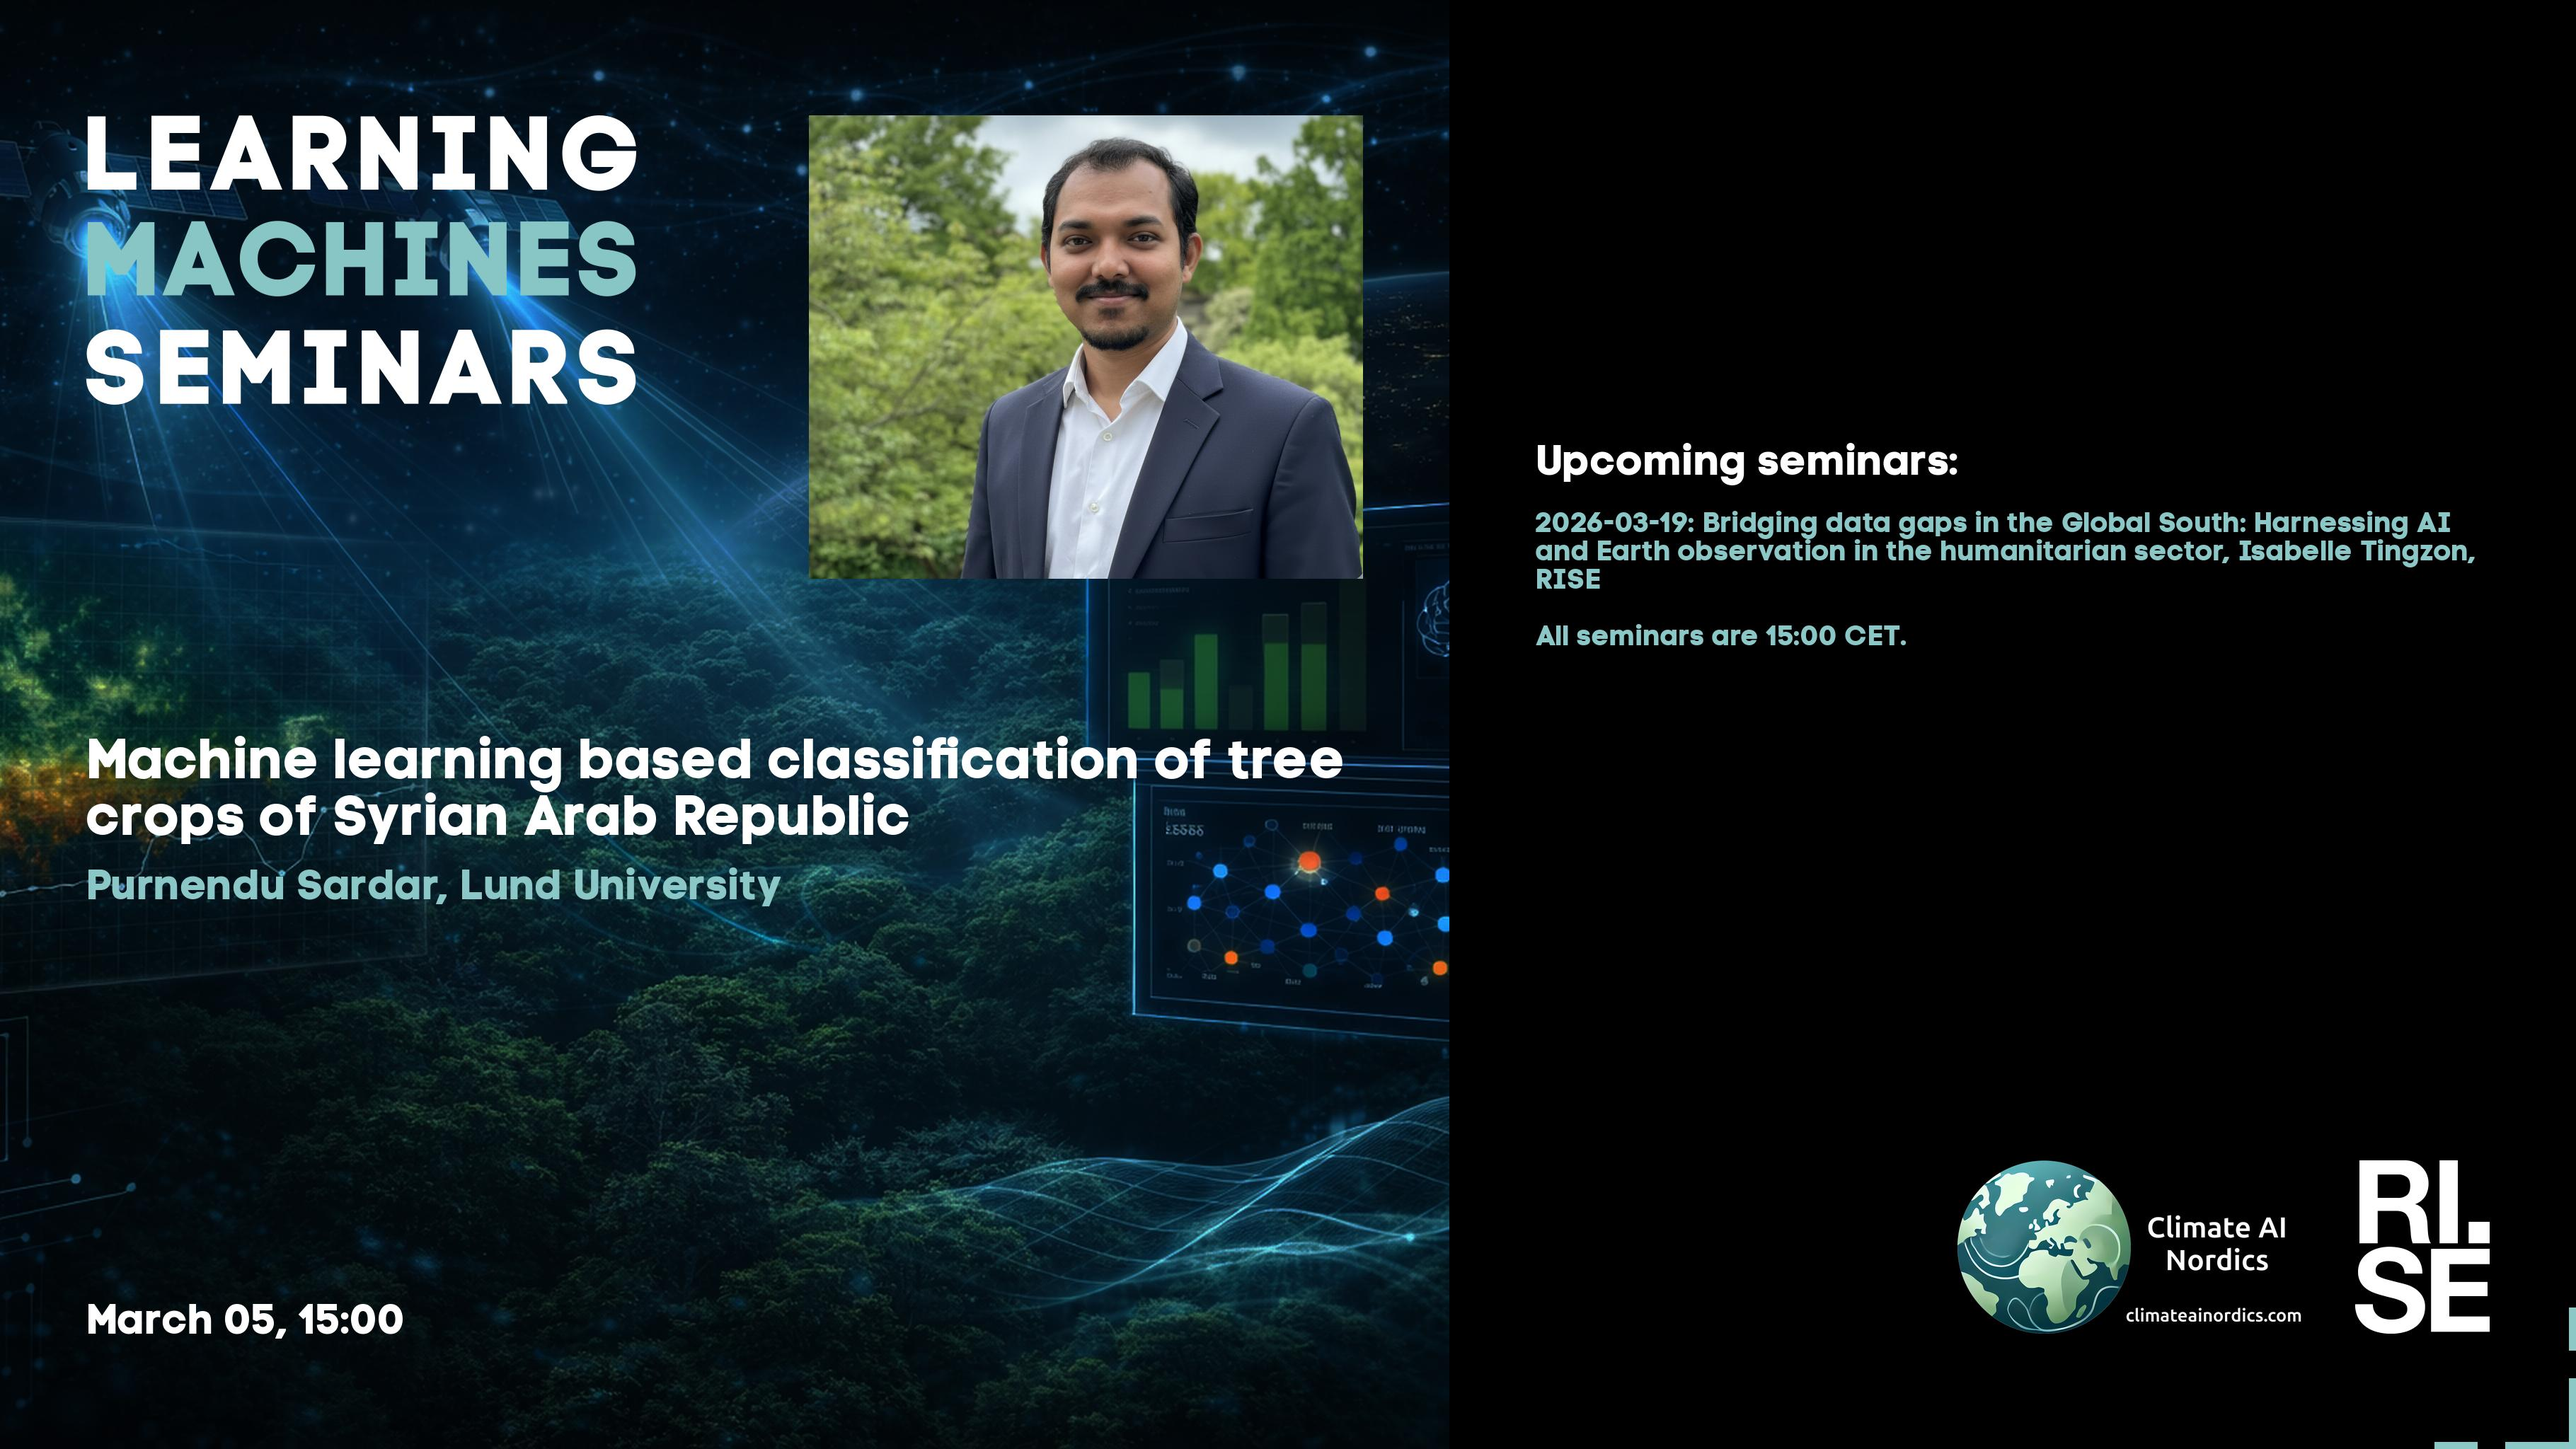
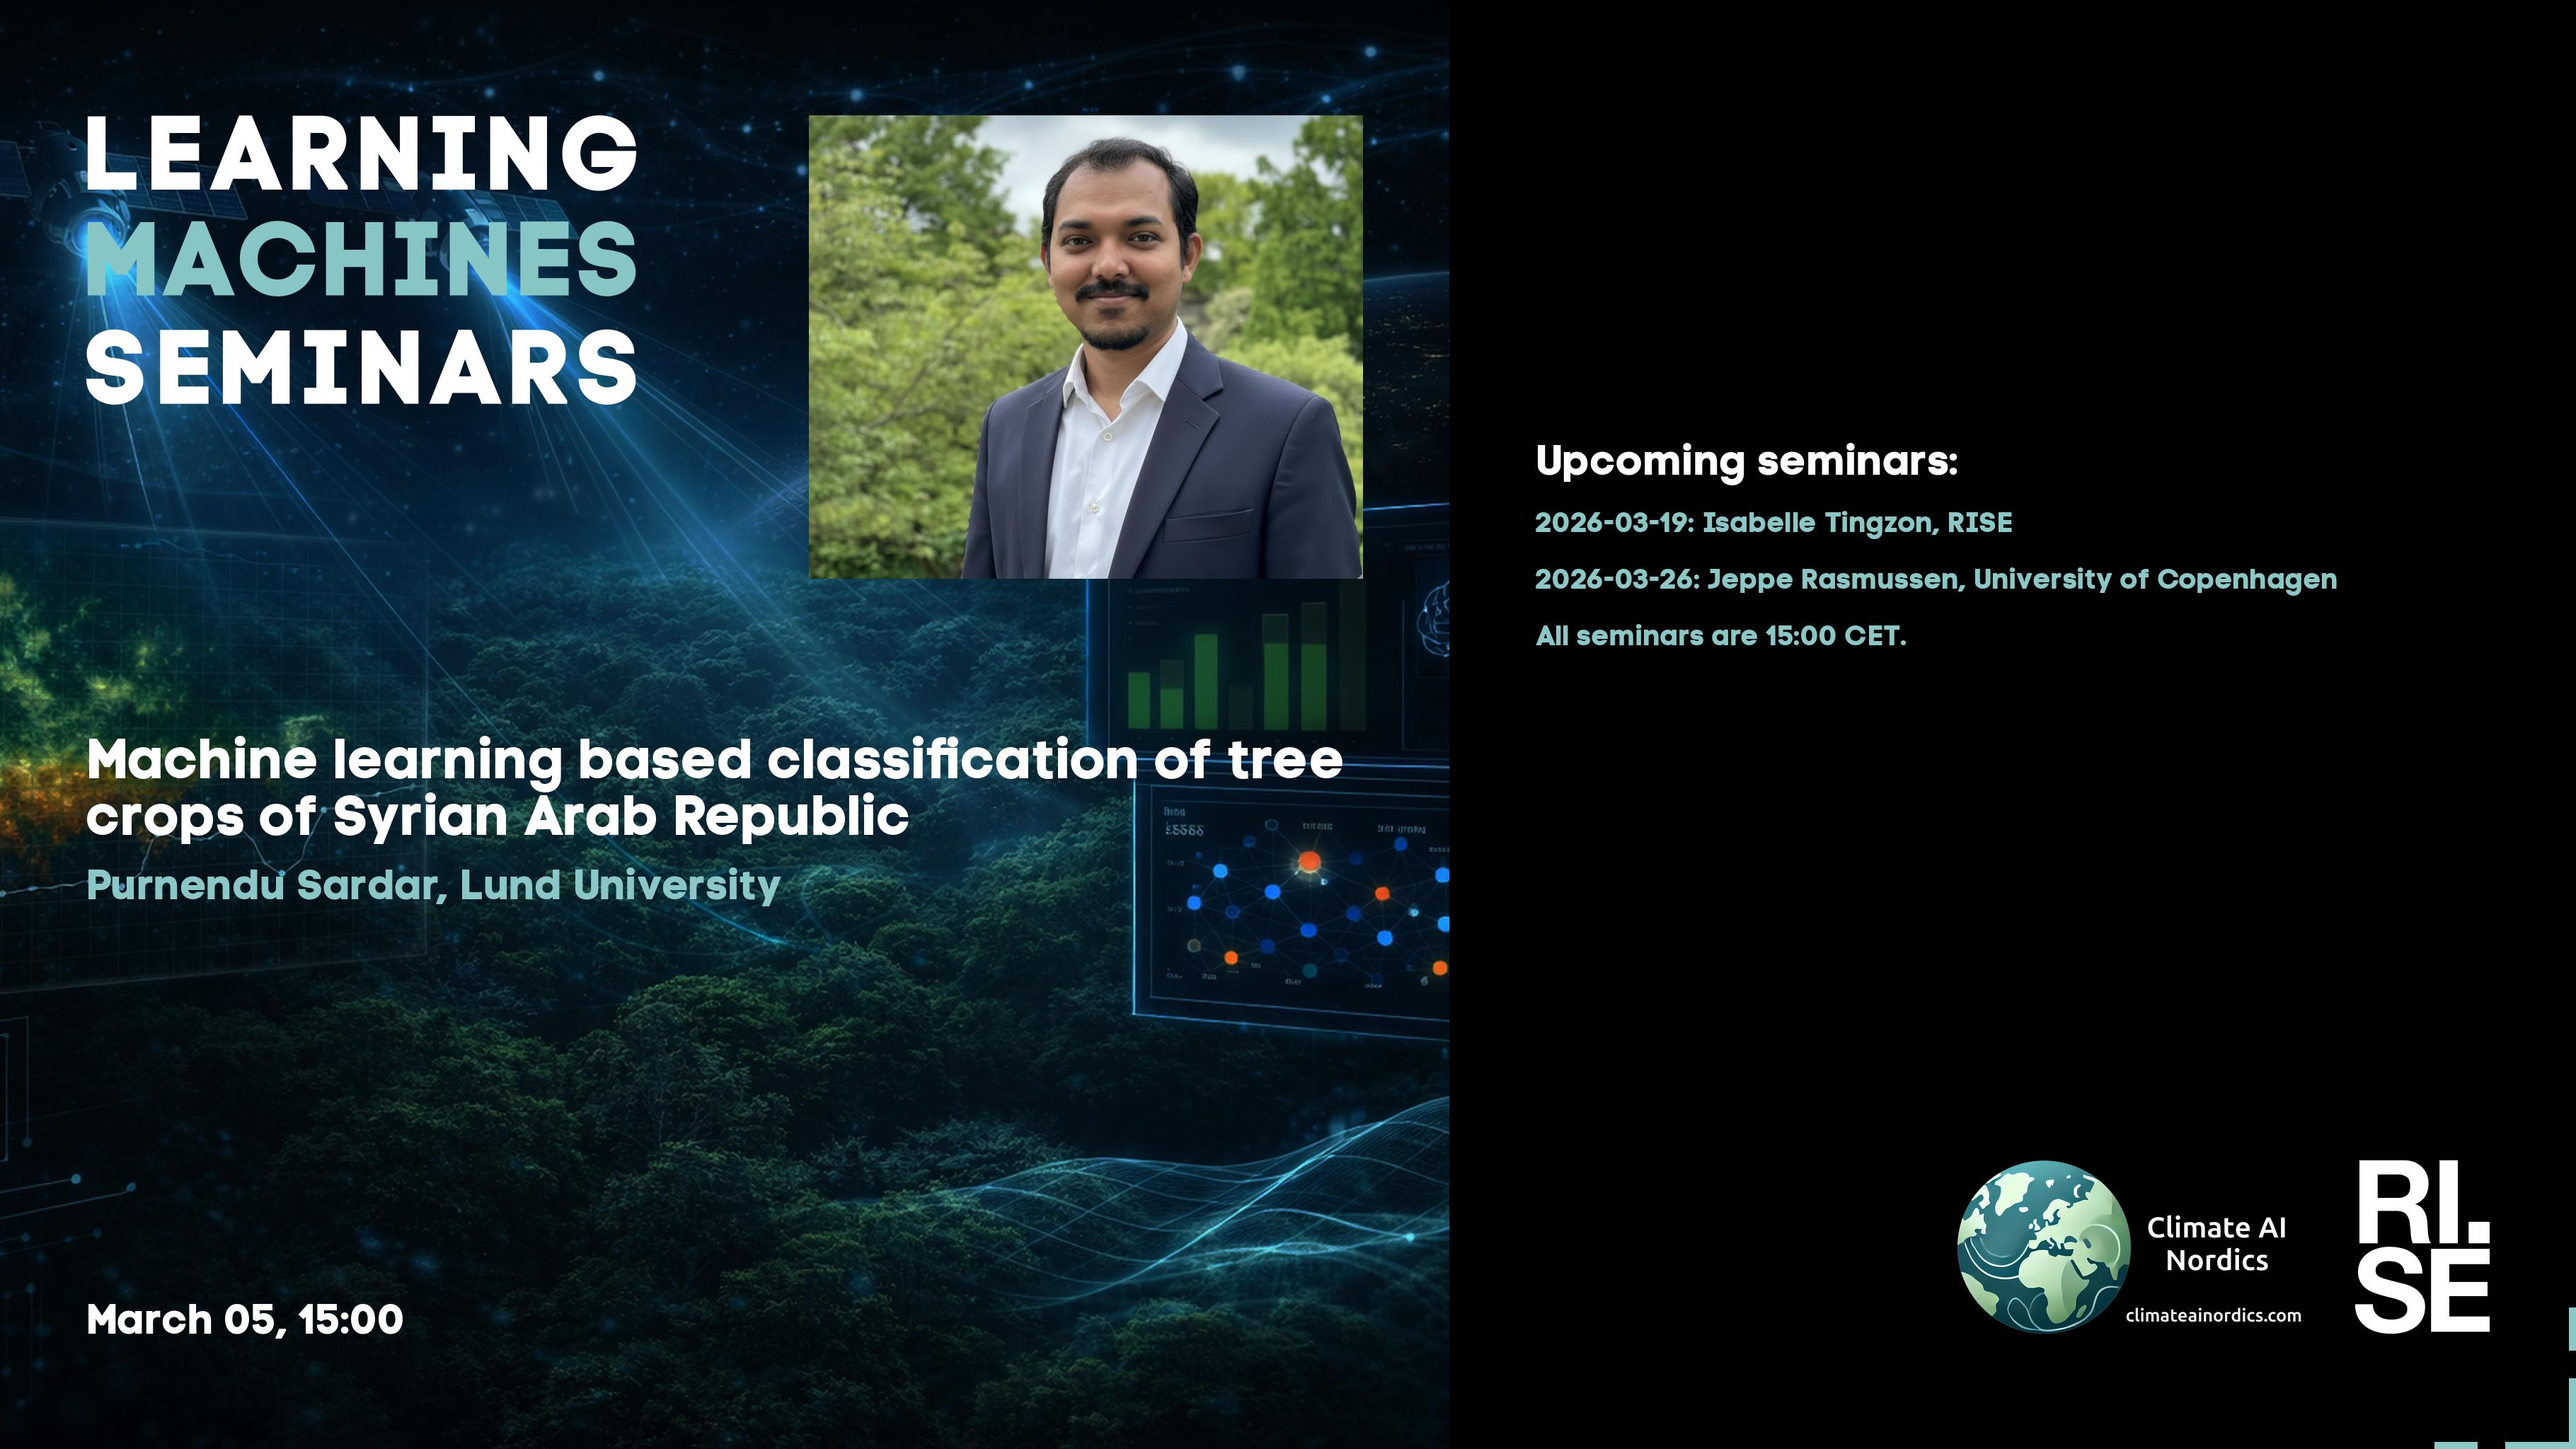
Updated plan on web site.

Changed region(s): [[0.5898, 0.3438, 0.9624, 0.4062]]

diff --git a/lm/2026.md b/lm/2026.md
@@ -14,8 +14,9 @@ table {border-collapse: collapse;}
 |  2026-02-19  |  [Sanja Karilanova, Uppsala University](2026-02-19.md)  |  [photo](2026-02-19-photo-sanja-karilanova.jpg)  |  [social media bg ](2026-02-19-social-media-bg-sanja-karilanova.jpg) --- [social media photo ](2026-02-19-social-media-photo-sanja-karilanova.jpg) --- [social media 169 ](2026-02-19-social-media-169-sanja-karilanova.jpg)  |  [meeting backdrop ](2026-02-19-meeting-backdrop-sanja-karilanova.jpg)  |  [youtube thumbnail ](2026-02-19-youtube-thumbnail-sanja-karilanova.jpg)  |  STABP  |
 |  2026-03-05  |  [Purnendu Sardar, Lund University](2026-03-05.md)  |  [photo](2026-03-05-photo-purnendu-sardar.png)  |  [social media bg ](2026-03-05-social-media-bg-purnendu-sardar.jpg) --- [social media photo ](2026-03-05-social-media-photo-purnendu-sardar.jpg) --- [social media 169 ](2026-03-05-social-media-169-purnendu-sardar.jpg)  |  [meeting backdrop ](2026-03-05-meeting-backdrop-purnendu-sardar.jpg)  |  [youtube thumbnail ](2026-03-05-youtube-thumbnail-purnendu-sardar.jpg)  |  STABP  |
 |  2026-03-19  |  [Isabelle Tingzon, RISE Research Institutes of Sweden](2026-03-19.md)  |  [photo](2026-03-19-photo-isabelle-tingzon.jpg)  |  [social media bg ](2026-03-19-social-media-bg-isabelle-tingzon.jpg) --- [social media photo ](2026-03-19-social-media-photo-isabelle-tingzon.jpg) --- [social media 169 ](2026-03-19-social-media-169-isabelle-tingzon.jpg)  |  [meeting backdrop ](2026-03-19-meeting-backdrop-isabelle-tingzon.jpg)  |  [youtube thumbnail ](2026-03-19-youtube-thumbnail-isabelle-tingzon.jpg)  |  STABP  |
+|  2026-03-26  |  [Jeppe Rasmussen, University of Copenhagen](2026-03-26.md)  |    |  [social media bg ](2026-03-26-social-media-bg-jeppe-rasmussen.jpg) --- [social media photo ](2026-03-26-social-media-photo-jeppe-rasmussen.jpg) --- [social media 169 ](2026-03-26-social-media-169-jeppe-rasmussen.jpg)  |  [meeting backdrop ](2026-03-26-meeting-backdrop-jeppe-rasmussen.jpg)  |  [youtube thumbnail ](2026-03-26-youtube-thumbnail-jeppe-rasmussen.jpg)  |  S~~TABP~~  |
 | <span style="color:red"> 2026-04-02 </span> | <span style="color:red"> Skärtorsdagen </span> | <span style="color:red">  </span> | <span style="color:red">  ---  ---  </span> | <span style="color:red">  </span> | <span style="color:red">  </span> | <span style="color:red"> CANCELLED </span> |
-| <span style="color:grey"> 2026-04-16 </span> | <span style="color:grey"> Jeppe R. ? </span> | <span style="color:grey">  </span> | <span style="color:grey">  ---  ---  </span> | <span style="color:grey">  </span> | <span style="color:grey">  </span> | <span style="color:grey"> S~~TABP~~ </span> |
+| <span style="color:purple"> 2026-04-16 </span> | <span style="color:purple"> *Up for grabs!!!* </span> | <span style="color:purple">  </span> | <span style="color:purple">  ---  ---  </span> | <span style="color:purple">  </span> | <span style="color:purple">  </span> | <span style="color:purple"> ~~STABP~~ </span> |
 | <span style="color:purple"> 2026-04-30 </span> | <span style="color:purple"> *Up for grabs!!!* </span> | <span style="color:purple">  </span> | <span style="color:purple">  ---  ---  </span> | <span style="color:purple">  </span> | <span style="color:purple">  </span> | <span style="color:purple"> ~~STABP~~ </span> |
 | <span style="color:grey"> 2026-05-14 </span> | <span style="color:grey"> Kelsey D. ? </span> | <span style="color:grey">  </span> | <span style="color:grey">  ---  ---  </span> | <span style="color:grey">  </span> | <span style="color:grey">  </span> | <span style="color:grey"> S~~TABP~~ </span> |
 | <span style="color:grey"> 2026-05-28 </span> | <span style="color:grey"> Kelsey D. ? </span> | <span style="color:grey">  </span> | <span style="color:grey">  ---  ---  </span> | <span style="color:grey">  </span> | <span style="color:grey">  </span> | <span style="color:grey"> S~~TABP~~ </span> |

diff --git a/lm/index.md b/lm/index.md
@@ -14,8 +14,9 @@ table {border-collapse: collapse;}
 |  2026-02-19  |  [Sanja Karilanova, Uppsala University](2026-02-19.md)  |  [photo](2026-02-19-photo-sanja-karilanova.jpg)  |  [social media bg ](2026-02-19-social-media-bg-sanja-karilanova.jpg) --- [social media photo ](2026-02-19-social-media-photo-sanja-karilanova.jpg) --- [social media 169 ](2026-02-19-social-media-169-sanja-karilanova.jpg)  |  [meeting backdrop ](2026-02-19-meeting-backdrop-sanja-karilanova.jpg)  |  [youtube thumbnail ](2026-02-19-youtube-thumbnail-sanja-karilanova.jpg)  |  STABP  |
 |  2026-03-05  |  [Purnendu Sardar, Lund University](2026-03-05.md)  |  [photo](2026-03-05-photo-purnendu-sardar.png)  |  [social media bg ](2026-03-05-social-media-bg-purnendu-sardar.jpg) --- [social media photo ](2026-03-05-social-media-photo-purnendu-sardar.jpg) --- [social media 169 ](2026-03-05-social-media-169-purnendu-sardar.jpg)  |  [meeting backdrop ](2026-03-05-meeting-backdrop-purnendu-sardar.jpg)  |  [youtube thumbnail ](2026-03-05-youtube-thumbnail-purnendu-sardar.jpg)  |  STABP  |
 |  2026-03-19  |  [Isabelle Tingzon, RISE Research Institutes of Sweden](2026-03-19.md)  |  [photo](2026-03-19-photo-isabelle-tingzon.jpg)  |  [social media bg ](2026-03-19-social-media-bg-isabelle-tingzon.jpg) --- [social media photo ](2026-03-19-social-media-photo-isabelle-tingzon.jpg) --- [social media 169 ](2026-03-19-social-media-169-isabelle-tingzon.jpg)  |  [meeting backdrop ](2026-03-19-meeting-backdrop-isabelle-tingzon.jpg)  |  [youtube thumbnail ](2026-03-19-youtube-thumbnail-isabelle-tingzon.jpg)  |  STABP  |
+|  2026-03-26  |  [Jeppe Rasmussen, University of Copenhagen](2026-03-26.md)  |    |  [social media bg ](2026-03-26-social-media-bg-jeppe-rasmussen.jpg) --- [social media photo ](2026-03-26-social-media-photo-jeppe-rasmussen.jpg) --- [social media 169 ](2026-03-26-social-media-169-jeppe-rasmussen.jpg)  |  [meeting backdrop ](2026-03-26-meeting-backdrop-jeppe-rasmussen.jpg)  |  [youtube thumbnail ](2026-03-26-youtube-thumbnail-jeppe-rasmussen.jpg)  |  S~~TABP~~  |
 | <span style="color:red"> 2026-04-02 </span> | <span style="color:red"> Skärtorsdagen </span> | <span style="color:red">  </span> | <span style="color:red">  ---  ---  </span> | <span style="color:red">  </span> | <span style="color:red">  </span> | <span style="color:red"> CANCELLED </span> |
-| <span style="color:grey"> 2026-04-16 </span> | <span style="color:grey"> Jeppe R. ? </span> | <span style="color:grey">  </span> | <span style="color:grey">  ---  ---  </span> | <span style="color:grey">  </span> | <span style="color:grey">  </span> | <span style="color:grey"> S~~TABP~~ </span> |
+| <span style="color:purple"> 2026-04-16 </span> | <span style="color:purple"> *Up for grabs!!!* </span> | <span style="color:purple">  </span> | <span style="color:purple">  ---  ---  </span> | <span style="color:purple">  </span> | <span style="color:purple">  </span> | <span style="color:purple"> ~~STABP~~ </span> |
 | <span style="color:purple"> 2026-04-30 </span> | <span style="color:purple"> *Up for grabs!!!* </span> | <span style="color:purple">  </span> | <span style="color:purple">  ---  ---  </span> | <span style="color:purple">  </span> | <span style="color:purple">  </span> | <span style="color:purple"> ~~STABP~~ </span> |
 | <span style="color:grey"> 2026-05-14 </span> | <span style="color:grey"> Kelsey D. ? </span> | <span style="color:grey">  </span> | <span style="color:grey">  ---  ---  </span> | <span style="color:grey">  </span> | <span style="color:grey">  </span> | <span style="color:grey"> S~~TABP~~ </span> |
 | <span style="color:grey"> 2026-05-28 </span> | <span style="color:grey"> Kelsey D. ? </span> | <span style="color:grey">  </span> | <span style="color:grey">  ---  ---  </span> | <span style="color:grey">  </span> | <span style="color:grey">  </span> | <span style="color:grey"> S~~TABP~~ </span> |

diff --git a/lm/2026-03-19.md b/lm/2026-03-19.md
@@ -21,13 +21,16 @@ In parallel, the presentation showcases UNICEF Giga’s mission to connect every
 
 **Date:** 2026-03-19 15:00
 
-**Zoom link:** [https://rise.zoom.us/j/67564688191?pwd=R8tRifC8ssApxCK7CCGd8fH993I7KS.1](https://rise.zoom.us/j/67564688191?pwd=R8tRifC8ssApxCK7CCGd8fH993I7KS.1)
+
 
 **Upcoming seminars:**
 
+* 2026-03-26: Jeppe Rasmussen, University of Copenhagen
 * All seminars are 15:00 CET.
 
 More information and coming seminars: [https://ri.se/lm-sem](https://ri.se/lm-sem)
 
 -- The Learning Machines Team
+
+**Zoom link:** [https://rise.zoom.us/j/67564688191?pwd=R8tRifC8ssApxCK7CCGd8fH993I7KS.1](https://rise.zoom.us/j/67564688191?pwd=R8tRifC8ssApxCK7CCGd8fH993I7KS.1)
 

diff --git a/lm/2026-03-26.md b/lm/2026-03-26.md
@@ -1,0 +1,32 @@
+---
+layout: default
+metatags: "<meta name=\"robots\" content=\"noindex,nofollow\" />"
+---
+<img src="/lm/2026-03-26-social-media-169-jeppe-rasmussen.jpg" />
+ 
+Welcome to this week's Learning Machines seminar.
+
+**Title:** N/A
+
+**Speaker:** Jeppe Rasmussen, University of Copenhagen
+
+**Abstract:** N/A
+
+**About the speaker:** N/A
+
+**Location:** This is an online seminar. Connect using Zoom.
+
+**Date:** 2026-03-26 15:00
+
+
+
+**Upcoming seminars:**
+
+* All seminars are 15:00 CET.
+
+More information and coming seminars: [https://ri.se/lm-sem](https://ri.se/lm-sem)
+
+-- The Learning Machines Team
+
+**Zoom link:** [N/A](N/A)
+

diff --git a/lm/2026-02-19.md b/lm/2026-02-19.md
@@ -22,8 +22,9 @@ Welcome to this week's Learning Machines seminar.
 
 **Upcoming seminars:**
 
-* 2026-03-05: *Bridging data gaps in the Global South: Harnessing AI and Earth observation in the humanitarian sector*, Purnendu Sardar, Lund University
-* 2026-03-19: *Bridging data gaps in the Global South: Harnessing AI and Earth observation in the humanitarian sector*, Isabelle Tingzon, RISE
+* 2026-03-05: Purnendu Sardar, Lund University
+* 2026-03-19: Isabelle Tingzon, RISE
+* 2026-03-26: Jeppe Rasmussen, University of Copenhagen
 * All seminars are 15:00 CET.
 
 More information and coming seminars: [https://ri.se/lm-sem](https://ri.se/lm-sem)

diff --git a/lm/statistics-2026.md b/lm/statistics-2026.md
@@ -10,11 +10,11 @@ title: Learning Machines Statistics 2026
 
 
 
-## 5 speakers
+## 6 speakers
 
-Isabelle Tingzon, Nita Mulliqi, Pablo Villanueva Perez, Purnendu Sardar, Sanja Karilanova
+Isabelle Tingzon, Jeppe Rasmussen, Nita Mulliqi, Pablo Villanueva Perez, Purnendu Sardar, Sanja Karilanova
 
-## 4 affiliations
+## 5 affiliations
 
-Karolinska Institute, Lund University, RISE Research Institutes of Sweden, Uppsala University
+Karolinska Institute, Lund University, RISE Research Institutes of Sweden, University of Copenhagen, Uppsala University
 

diff --git a/lm/2026-03-05.md b/lm/2026-03-05.md
@@ -28,7 +28,8 @@ The findings underscore the efficacy of the CNN in distinguishing tree crop cove
 
 **Upcoming seminars:**
 
-* 2026-03-19: *Bridging data gaps in the Global South: Harnessing AI and Earth observation in the humanitarian sector*, Isabelle Tingzon, RISE
+* 2026-03-19: Isabelle Tingzon, RISE
+* 2026-03-26: Jeppe Rasmussen, University of Copenhagen
 * All seminars are 15:00 CET.
 
 More information and coming seminars: [https://ri.se/lm-sem](https://ri.se/lm-sem)
